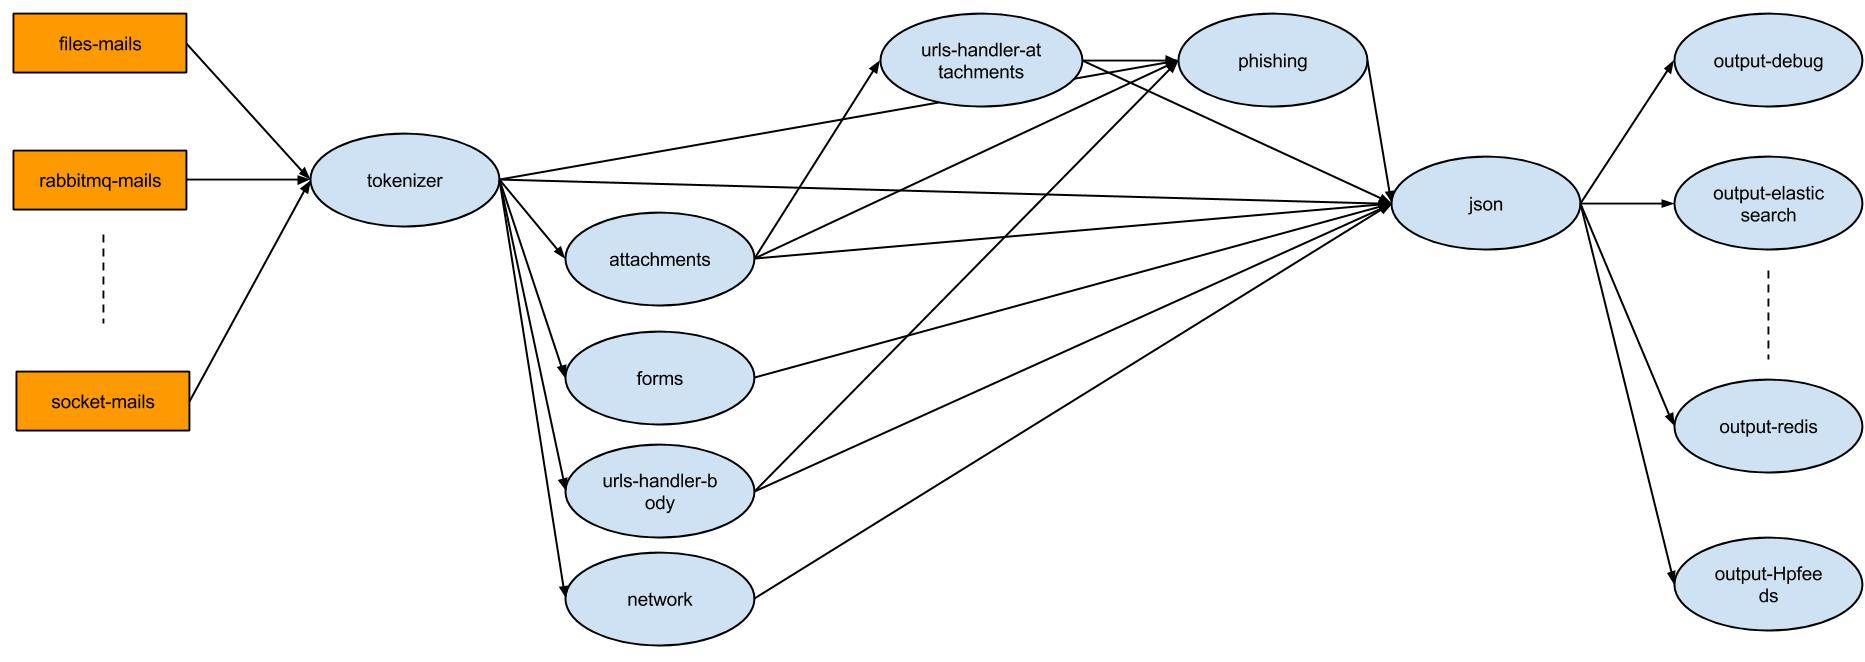
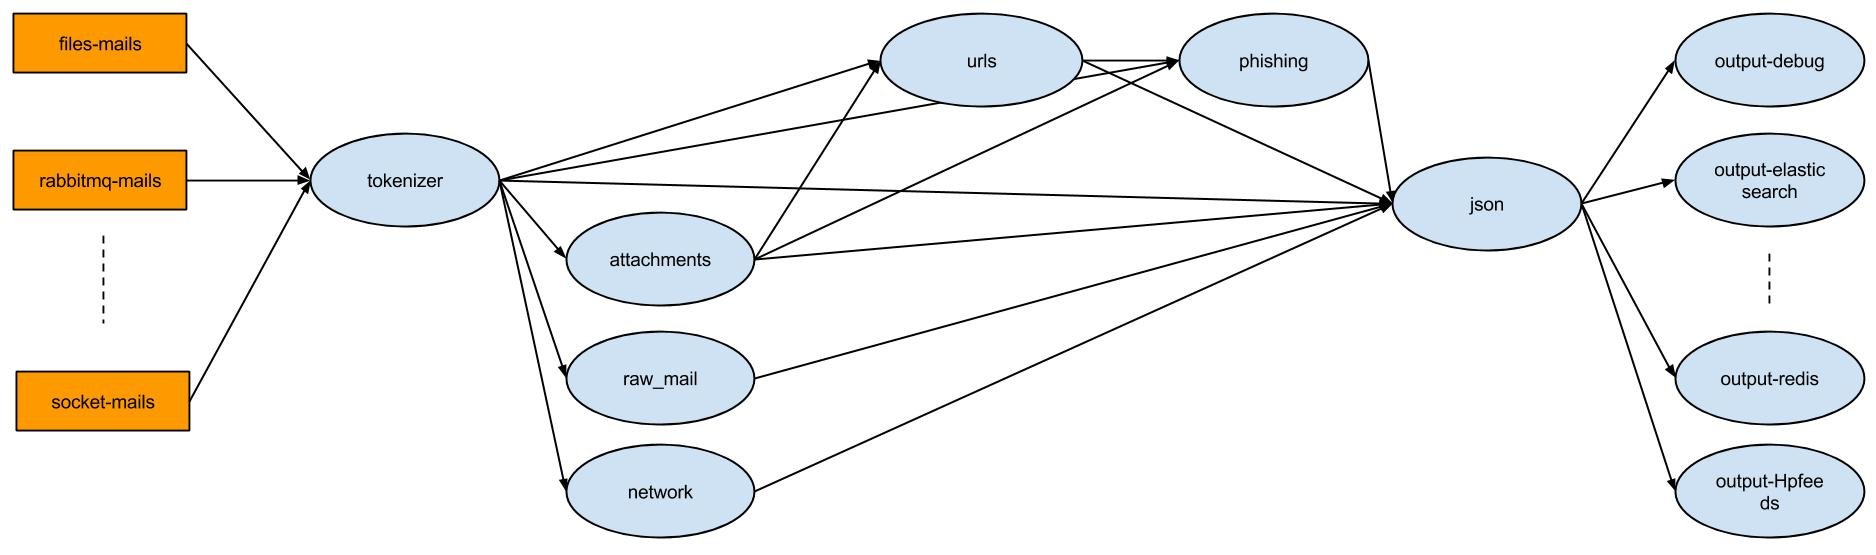
New topology schema Added abstract topology

diff --git a/topologies/abstracts.py b/topologies/abstracts.py
@@ -18,14 +18,17 @@ limitations under the License.
 """
 
 
+from abc import ABCMeta
+
 from streamparse import Grouping, Topology
-from bolts import (Attachments, JsonMaker,
-                   Phishing, Tokenizer, UrlsHandlerAttachments,
-                   UrlsHandlerBody, Network, OutputRedis)
 from spouts import FilesMailSpout
+from bolts import (Attachments, JsonMaker, Phishing, Tokenizer,
+                   Urls, Network, RawMail)
 
 
-class OutputTestingTopology(Topology):
+class AbstractTopology(Topology):
+
+    __metaclass__ = ABCMeta
 
     files_spout = FilesMailSpout.spec(
         name="files-mails")
@@ -38,40 +41,37 @@ class OutputTestingTopology(Topology):
     attachments = Attachments.spec(
         name="attachments",
         inputs={tokenizer['attachments']: Grouping.fields('sha256_random')},
-        par=1)
+        par=2)
 
-    urls_body = UrlsHandlerBody.spec(
-        name="urls-handler-body",
-        inputs={tokenizer['body']: Grouping.fields('sha256_random')})
-
-    urls_attachments = UrlsHandlerAttachments.spec(
-        name="urls-handler-attachments",
-        inputs={attachments: Grouping.fields('sha256_random')})
+    urls = Urls.spec(
+        name="urls",
+        inputs={
+            attachments: Grouping.fields('sha256_random'),
+            tokenizer['body']: Grouping.fields('sha256_random')})
 
     phishing = Phishing.spec(
         name="phishing",
         inputs={
-            tokenizer['mail']: Grouping.fields('sha256_random'),
             attachments: Grouping.fields('sha256_random'),
-            urls_body: Grouping.fields('sha256_random'),
-            urls_attachments: Grouping.fields('sha256_random')})
+            tokenizer['mail']: Grouping.fields('sha256_random'),
+            urls: Grouping.fields('sha256_random')})
 
     network = Network.spec(
         name="network",
         inputs={tokenizer['network']: Grouping.fields('sha256_random')},
-        par=1)
+        par=2)
+
+    raw_mail = RawMail.spec(
+        name="raw_mail",
+        inputs={tokenizer['raw_mail']: Grouping.fields('sha256_random')},
+        par=2)
 
     json = JsonMaker.spec(
         name="json",
         inputs={
-            tokenizer['mail']: Grouping.fields('sha256_random'),
-            phishing: Grouping.fields('sha256_random'),
             attachments: Grouping.fields('sha256_random'),
             network: Grouping.fields('sha256_random'),
-            urls_body: Grouping.fields('sha256_random'),
-            urls_attachments: Grouping.fields('sha256_random')})
-
-    output_redis = OutputRedis.spec(
-        name="output-redis",
-        inputs=[json],
-        par=1)
+            phishing: Grouping.fields('sha256_random'),
+            raw_mail: Grouping.fields('sha256_random'),
+            tokenizer['mail']: Grouping.fields('sha256_random'),
+            urls: Grouping.fields('sha256_random')})

diff --git a/tests/test_spamassassin.py b/tests/test_spamassassin.py
@@ -21,6 +21,11 @@ import os
 import sys
 import unittest
 
+try:
+    from collections import ChainMap
+except ImportError:
+    from chainmap import ChainMap
+
 base_path = os.path.realpath(os.path.dirname(__file__))
 root = os.path.join(base_path, '..')
 sys.path.append(root)
@@ -32,9 +37,15 @@ mail_thug_spamassassin = os.path.join(
     base_path, 'samples', 'mail_thug_spamassassin')
 mail_spamassassin = os.path.join(base_path, 'samples', 'mail_spamassassin')
 
+DEFAULTS = {"SPAMASSASSIN_ENABLED": "False"}
+OPTIONS = ChainMap(os.environ, DEFAULTS)
+
 
 class TestSpamAssassin(unittest.TestCase):
 
+    @unittest.skipIf(OPTIONS["SPAMASSASSIN_ENABLED"].capitalize() == "False",
+                     "SpamAssassin test skipped: "
+                     "set env variable 'SPAMASSASSIN_ENABLED' to True")
     def test_obj_report(self):
         with open(mail_thug_spamassassin) as f:
             s = f.read()
@@ -52,11 +63,17 @@ class TestSpamAssassin(unittest.TestCase):
         self.assertEqual(report["score"], 5.8)
         self.assertEqual(len(report["details"]), 3)
 
+    @unittest.skipIf(OPTIONS["SPAMASSASSIN_ENABLED"].capitalize() == "False",
+                     "SpamAssassin test skipped: "
+                     "set env variable 'SPAMASSASSIN_ENABLED' to True")
     def test_analysis_from_file(self):
         s = spamassassin.analysis_from_file(mail_thug)
         self.assertIn("X-Spam-Status", s)
         self.assertIn("pts rule name", s)
 
+    @unittest.skipIf(OPTIONS["SPAMASSASSIN_ENABLED"].capitalize() == "False",
+                     "SpamAssassin test skipped: "
+                     "set env variable 'SPAMASSASSIN_ENABLED' to True")
     def test_report_from_file(self):
         s = spamassassin.report_from_file(mail_thug)
         self.assertIsInstance(s, dict)
@@ -66,6 +83,9 @@ class TestSpamAssassin(unittest.TestCase):
         self.assertIsInstance(s["details"], list)
         self.assertIsInstance(s["score"], float)
 
+    @unittest.skipIf(OPTIONS["SPAMASSASSIN_ENABLED"].capitalize() == "False",
+                     "SpamAssassin test skipped: "
+                     "set env variable 'SPAMASSASSIN_ENABLED' to True")
     def test_mail_spamassassin(self):
         s = spamassassin.report_from_file(mail_spamassassin)
         self.assertIsInstance(s, dict)

diff --git a/topologies/spamscope_elasticsearch.py b/topologies/spamscope_elasticsearch.py
@@ -18,60 +18,12 @@ limitations under the License.
 """
 
 
-from streamparse import Grouping, Topology
-from bolts import (Attachments, JsonMaker,
-                   Phishing, Tokenizer, UrlsHandlerAttachments,
-                   UrlsHandlerBody, Network, OutputElasticsearch)
-from spouts import FilesMailSpout
+from bolts import OutputElasticsearch
+from .abstracts import AbstractTopology
 
 
-class OutputElasticsearchTopology(Topology):
-
-    files_spout = FilesMailSpout.spec(
-        name="files-mails")
-
-    tokenizer = Tokenizer.spec(
-        name="tokenizer",
-        inputs=[files_spout],
-        par=1)
-
-    attachments = Attachments.spec(
-        name="attachments",
-        inputs={tokenizer['attachments']: Grouping.fields('sha256_random')},
-        par=2)
-
-    urls_body = UrlsHandlerBody.spec(
-        name="urls-handler-body",
-        inputs={tokenizer['body']: Grouping.fields('sha256_random')})
-
-    urls_attachments = UrlsHandlerAttachments.spec(
-        name="urls-handler-attachments",
-        inputs={attachments: Grouping.fields('sha256_random')})
-
-    phishing = Phishing.spec(
-        name="phishing",
-        inputs={
-            tokenizer['mail']: Grouping.fields('sha256_random'),
-            attachments: Grouping.fields('sha256_random'),
-            urls_body: Grouping.fields('sha256_random'),
-            urls_attachments: Grouping.fields('sha256_random')})
-
-    network = Network.spec(
-        name="network",
-        inputs={tokenizer['network']: Grouping.fields('sha256_random')},
-        par=2)
-
-    json = JsonMaker.spec(
-        name="json",
-        inputs={
-            tokenizer['mail']: Grouping.fields('sha256_random'),
-            phishing: Grouping.fields('sha256_random'),
-            attachments: Grouping.fields('sha256_random'),
-            network: Grouping.fields('sha256_random'),
-            urls_body: Grouping.fields('sha256_random'),
-            urls_attachments: Grouping.fields('sha256_random')})
+class OutputElasticsearchTopology(AbstractTopology):
 
     output_elasticsearch = OutputElasticsearch.spec(
         name="output-elasticsearch",
-        inputs=[json],
-        par=1)
+        inputs=[AbstractTopology().json])

diff --git a/topologies/spamscope_debug.py b/topologies/spamscope_debug.py
@@ -18,59 +18,12 @@ limitations under the License.
 """
 
 
-from streamparse import Grouping, Topology
-from bolts import (Attachments, JsonMaker,
-                   Phishing, Tokenizer, UrlsHandlerAttachments,
-                   UrlsHandlerBody, Network, OutputDebug)
-from spouts import FilesMailSpout
+from bolts import OutputDebug
+from .abstracts import AbstractTopology
 
 
-class OutputDebugTopology(Topology):
-
-    files_spout = FilesMailSpout.spec(
-        name="files-mails")
-
-    tokenizer = Tokenizer.spec(
-        name="tokenizer",
-        inputs=[files_spout],
-        par=1)
-
-    attachments = Attachments.spec(
-        name="attachments",
-        inputs={tokenizer['attachments']: Grouping.fields('sha256_random')},
-        par=2)
-
-    urls_body = UrlsHandlerBody.spec(
-        name="urls-handler-body",
-        inputs={tokenizer['body']: Grouping.fields('sha256_random')})
-
-    urls_attachments = UrlsHandlerAttachments.spec(
-        name="urls-handler-attachments",
-        inputs={attachments: Grouping.fields('sha256_random')})
-
-    phishing = Phishing.spec(
-        name="phishing",
-        inputs={
-            tokenizer['mail']: Grouping.fields('sha256_random'),
-            attachments: Grouping.fields('sha256_random'),
-            urls_body: Grouping.fields('sha256_random'),
-            urls_attachments: Grouping.fields('sha256_random')})
-
-    network = Network.spec(
-        name="network",
-        inputs={tokenizer['network']: Grouping.fields('sha256_random')},
-        par=2)
-
-    json = JsonMaker.spec(
-        name="json",
-        inputs={
-            tokenizer['mail']: Grouping.fields('sha256_random'),
-            phishing: Grouping.fields('sha256_random'),
-            attachments: Grouping.fields('sha256_random'),
-            network: Grouping.fields('sha256_random'),
-            urls_body: Grouping.fields('sha256_random'),
-            urls_attachments: Grouping.fields('sha256_random')})
+class OutputDebugTopology(AbstractTopology):
 
     output_debug = OutputDebug.spec(
         name="output-debug",
-        inputs=[json])
+        inputs=[AbstractTopology().json])

diff --git a/topologies/spamscope_redis.py b/topologies/spamscope_redis.py
@@ -18,60 +18,12 @@ limitations under the License.
 """
 
 
-from streamparse import Grouping, Topology
-from bolts import (Attachments, JsonMaker, Phishing, Tokenizer,
-                   Urls, Network, OutputRedis, RawMail)
-from spouts import FilesMailSpout
+from bolts import OutputRedis
+from .abstracts import AbstractTopology
 
 
-class OutputRedisTopology(Topology):
-
-    files_spout = FilesMailSpout.spec(
-        name="files-mails")
-
-    tokenizer = Tokenizer.spec(
-        name="tokenizer",
-        inputs=[files_spout],
-        par=1)
-
-    attachments = Attachments.spec(
-        name="attachments",
-        inputs={tokenizer['attachments']: Grouping.fields('sha256_random')},
-        par=2)
-
-    urls = Urls.spec(
-        name="urls",
-        inputs={
-            attachments: Grouping.fields('sha256_random'),
-            tokenizer['body']: Grouping.fields('sha256_random')})
-
-    phishing = Phishing.spec(
-        name="phishing",
-        inputs={
-            attachments: Grouping.fields('sha256_random'),
-            tokenizer['mail']: Grouping.fields('sha256_random'),
-            urls: Grouping.fields('sha256_random')})
-
-    network = Network.spec(
-        name="network",
-        inputs={tokenizer['network']: Grouping.fields('sha256_random')},
-        par=2)
-
-    raw_mail = RawMail.spec(
-        name="raw_mail",
-        inputs={tokenizer['raw_mail']: Grouping.fields('sha256_random')},
-        par=2)
-
-    json = JsonMaker.spec(
-        name="json",
-        inputs={
-            attachments: Grouping.fields('sha256_random'),
-            network: Grouping.fields('sha256_random'),
-            phishing: Grouping.fields('sha256_random'),
-            raw_mail: Grouping.fields('sha256_random'),
-            tokenizer['mail']: Grouping.fields('sha256_random'),
-            urls: Grouping.fields('sha256_random')})
+class OutputRedisTopology(AbstractTopology):
 
     output_redis = OutputRedis.spec(
         name="output-redis",
-        inputs=[json])
+        inputs=[AbstractTopology().json])

diff --git a/tests/test_raw_mail_post_processing.py b/tests/test_raw_mail_post_processing.py
@@ -21,14 +21,14 @@ import os
 import sys
 import unittest
 
-base_path = os.path.realpath(os.path.dirname(__file__))
-root = os.path.join(base_path, '..')
-sys.path.append(root)
-
 try:
     from collections import ChainMap
 except ImportError:
     from chainmap import ChainMap
+
+base_path = os.path.realpath(os.path.dirname(__file__))
+root = os.path.join(base_path, '..')
+sys.path.append(root)
 
 from src.modules import MAIL_PATH
 

diff --git a/README.md b/README.md
@@ -221,6 +221,7 @@ $ export ZEMANA_PARTNERID="your partner id"
 $ export ZEMANA_USERID="your userid" 
 $ export SHODAN_ENABLED=True
 $ export SHODAN_APIKEY="your key"
+$ export SPAMASSASSIN_ENABLED=True
 ```
 
 
